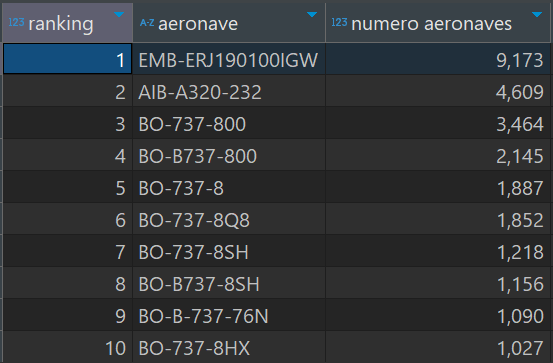
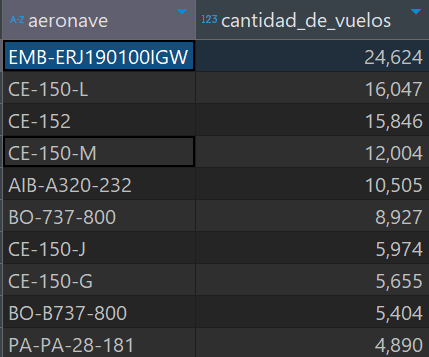
fixed ejercicio 10

diff --git a/Examen Final/Ejercicio 1/readme.md b/Examen Final/Ejercicio 1/readme.md
@@ -403,34 +403,24 @@ LIMIT 10;
 ### **10.** Cuales son las 10 aeronaves más utilizadas entre el 01/01/2021 y el 30/06/22 que despegaron desde la Ciudad autónoma de Buenos Aires o de Buenos Aires, exceptuando aquellas aeronaves que no cuentan con nombre. Mostrar consulta y Visualización
 
 ```sql
--- Vista temporal de aeropuertos en BsAs / CABA
-CREATE VIEW aeropuertos_bsas AS
-SELECT 
-	adt.aeropuerto,
-	adt.provincia
-FROM aeropuerto_detalles_tabla adt
-WHERE adt.provincia IN ("BUENOS AIRES", "CIUDAD AUTÓNOMA DE BUENOS AIRES");
-
--- Vista temporal de aeronaves en fecha pedida, no nulas y que despegan
-CREATE VIEW aeronaves AS
 SELECT
-	AT.aeropuerto,
-	AT.aeronave
-FROM aeropuerto_tabla AT
-WHERE AT.fecha BETWEEN "2021-01-01" AND "2022-06-30"
-AND (AT.aeronave IS NOT NULL) AND (AT.aeronave <> "0")
-AND AT.tipo_de_movimiento == "Despegue";
-
--- Top 10 aeronaves mas utilizadas, union vistas temporales
-SELECT
-	RANK() OVER (ORDER BY COUNT(a.aeronave) DESC) AS `Ranking`,
-	a.aeronave AS `Aeronave`,
-	COUNT(a.aeronave) AS `Numero aeronaves`
-FROM aeronaves a
-INNER JOIN aeropuertos_bsas bs
-ON a.aeropuerto = bs.aeropuerto
-WHERE bs.provincia = "CIUDAD AUTÓNOMA DE BUENOS AIRES"
-GROUP BY a.aeronave
+    aeronave,
+    COUNT(*) AS cantidad_de_vuelos
+FROM  aeropuerto_tabla
+WHERE 
+    fecha BETWEEN '2021-01-01' AND '2022-06-30'
+    AND aeropuerto IN (
+        SELECT 
+            aeropuerto
+        FROM 
+            aeropuerto_detalles_tabla
+        WHERE 
+            provincia IN ('CIUDAD AUTÓNOMA DE BUENOS AIRES', 'BUENOS AIRES')
+    )
+    AND (aeronave IS NOT NULL) 
+    AND (aeronave <> "0")
+GROUP BY aeronave
+ORDER BY cantidad_de_vuelos DESC
 LIMIT 10;
 ```
 
